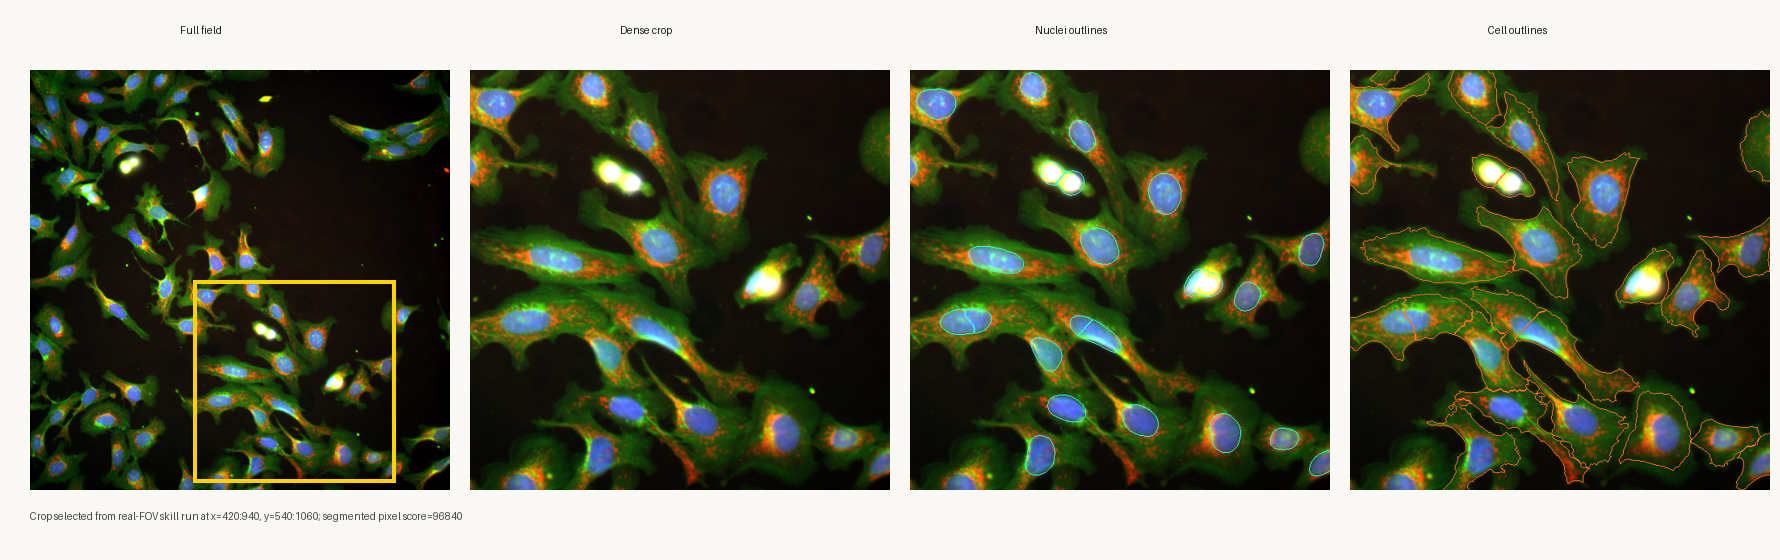
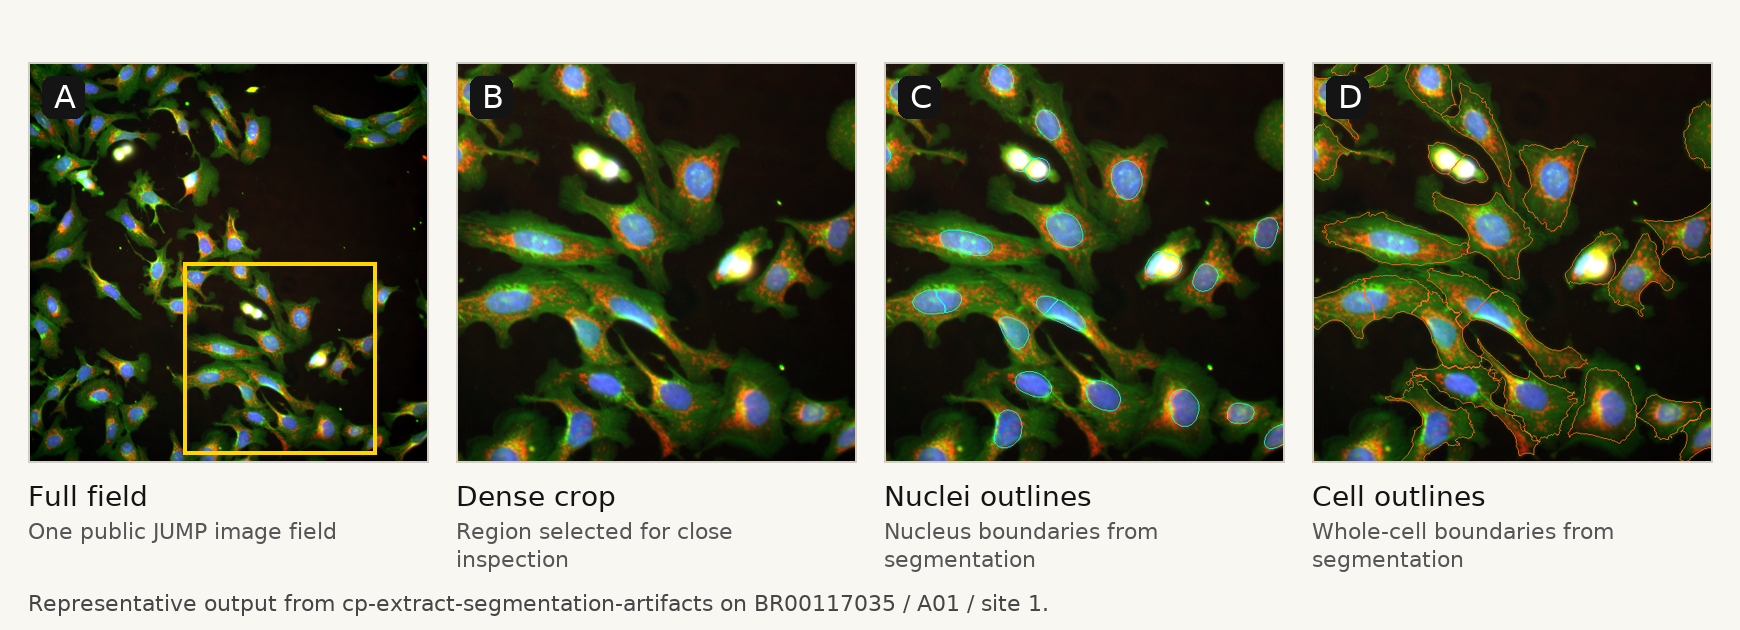
Refine segmentation artifact figure labels

diff --git a/docs/skills/cp_extract_segmentation_artifacts.md b/docs/skills/cp_extract_segmentation_artifacts.md
@@ -201,7 +201,18 @@ For a more realistic view of what this skill writes, the same `cp-extract-segmen
 
 ![Representative real-FOV segmentation output](../_static/agent_demo_segmentation/real_fov_segmentation_overview.png)
 
-Caption: Representative output from `cp-extract-segmentation-artifacts` on public field `BR00117035 / A01 / site 1`. Left to right: the full pseudocolor field, the selected dense crop, the same crop with nuclei outlines, and the same crop with cell outlines.
+Panels in this figure show:
+
+- `A`
+  The full pseudocolor image field. The yellow box marks the region chosen for closer inspection.
+- `B`
+  The selected crop from that field, shown without segmentation overlays.
+- `C`
+  The same crop with nucleus boundaries overlaid. This corresponds to the nuclei segmentation written by the skill.
+- `D`
+  The same crop with whole-cell boundaries overlaid. This corresponds to the cell segmentation written by the skill.
+
+Caption: Representative output from `cp-extract-segmentation-artifacts` on public field `BR00117035 / A01 / site 1`.
 
 ## Next Skills
 
